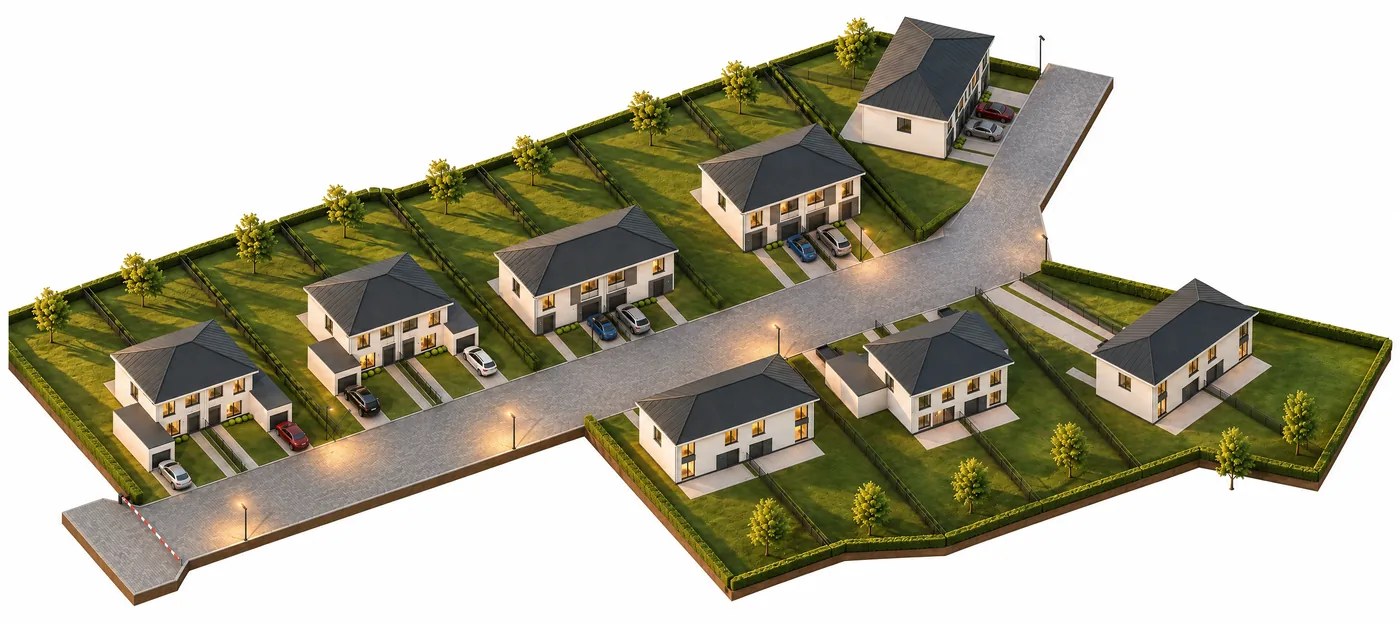
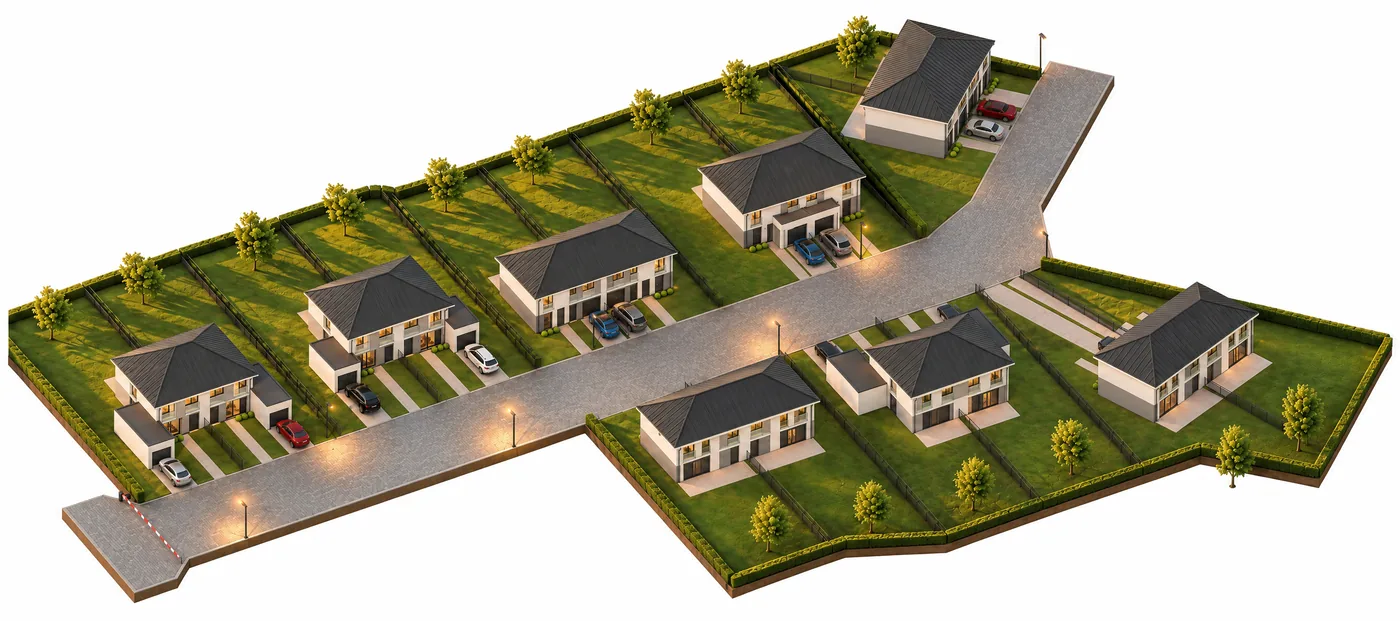
Makieta osiedla według elewacji i przekrojów projektu

diff --git a/js/makieta.js b/js/makieta.js
@@ -1,5 +1,5 @@
 // Obrysy połówek bliźniaków na makiecie 3D: kontury z maski ID (Blender, ta sama kamera co render).
 // Generuje makieta-3d/kadr.py + svg_js.py. Dwa widoki: poziomy (komputer) i pionowy (telefon).
-window.MAKIETA_WYM = [3688, 1644];
-window.MAKIETA = {"1A1": {"d": "M2485.0 419.5 2278.0 376.5 2270.5 373.0 2270.5 274.0 2257.5 268.0 2320.0 156.5 2437.0 138.5 2553.5 207.0 2553.5 211.0 2541.5 232.0 2541.5 272.0 2544.5 274.0 2545.5 315.0 2543.5 326.0 2526.5 357.0 2514.5 368.0 2499.5 403.0Z", "pin": [2410, 208]}, "1A1'": {"d": "M2548.0 315.5 2544.5 314.0 2541.5 232.0 2553.5 211.0 2553.0 205.5 2437.0 138.5 2323.0 156.5 2320.5 155.0 2383.0 43.5 2615.0 93.5 2617.5 96.0 2599.5 133.0 2599.5 218.0 2575.5 257.0 2569.5 280.0 2551.5 313.0Z", "pin": [2469, 110]}, "2A": {"d": "M1963.0 667.5 1855.5 548.0 1855.5 453.0 1835.5 432.0 2001.0 374.5 2059.0 397.5 2062.5 401.0 2121.5 510.0 2121.5 514.0 2115.5 517.0 2116.5 620.0 2105.0 627.5Z", "pin": [1976, 448]}, "2A'": {"d": "M2118.0 619.5 2115.5 618.0 2115.5 518.0 2121.5 515.0 2121.5 510.0 2061.5 399.0 2003.5 375.0 2162.0 319.5 2282.5 456.0 2266.5 464.0 2266.5 564.0 2264.0 566.5 2242.0 579.5 2190.0 589.5 2179.0 601.5 2125.0 614.5Z", "pin": [2142, 393]}, "3C": {"d": "M1415.0 886.5 1313.5 774.0 1319.5 686.0 1303.5 663.0 1493.0 596.5 1546.5 620.0 1598.5 716.0 1598.5 720.0 1592.5 724.0 1592.5 825.0 1571.0 837.5 1534.0 849.5 1525.0 847.5Z", "pin": [1455, 671]}, "3C'": {"d": "M1594.0 825.5 1592.5 724.0 1598.5 721.0 1598.5 716.0 1546.5 620.0 1494.5 597.0 1677.0 534.5 1786.5 657.0 1784.0 663.5 1774.5 667.0 1775.5 765.0 1747.0 776.5 1666.0 799.5 1655.0 808.5 1636.0 815.5 1618.0 821.5Z", "pin": [1644, 608]}, "4B": {"d": "M878.0 1041.5 810.5 968.0 810.5 913.0 839.5 899.0 812.5 874.0 810.5 776.0 797.5 757.0 936.0 708.5 996.5 734.0 1056.5 845.0 1056.5 848.0 1050.5 851.0 1050.5 950.0 1048.0 956.5 955.0 985.5 951.5 988.0 950.0 1016.5Z", "pin": [921, 790]}, "4B'": {"d": "M1051.0 955.5 1050.5 852.0 1056.5 849.0 1056.5 845.0 996.5 734.0 937.5 709.0 1075.0 661.5 1175.5 776.0 1189.0 789.5 1197.0 786.5 1259.5 857.0 1259.5 914.0 1194.0 937.5 1165.0 909.5 1102.0 934.5 1087.0 944.5Z", "pin": [1065, 733]}, "5B": {"d": "M392.0 1245.5 297.5 1143.0 297.5 1084.0 324.5 1070.0 303.5 1047.0 303.5 954.0 287.5 937.0 287.5 933.0 424.0 885.5 485.5 912.0 544.5 1022.0 544.5 1025.0 538.5 1029.0 538.5 1130.0 514.0 1142.5 459.0 1155.5 459.5 1221.0Z", "pin": [412, 973]}, "5B'": {"d": "M706.0 1140.5 695.5 1132.0 658.0 1089.5 561.0 1126.5 545.0 1127.5 540.0 1130.5 538.5 1029.0 544.5 1026.0 544.5 1022.0 485.5 912.0 425.5 886.0 563.0 838.5 667.5 960.0 679.5 961.0 767.5 1060.0 767.5 1118.0Z", "pin": [554, 911]}, "6C": {"d": "M1965.0 1215.5 1962.5 1214.0 1963.5 1115.0 1969.5 1111.0 1969.5 1107.0 1917.5 1011.0 1871.5 991.0 2058.0 926.5 2160.5 1042.0 2157.0 1048.5 2143.5 1054.0 2144.5 1153.0Z", "pin": [2022, 1000]}, "6C'": {"d": "M1784.0 1277.5 1683.5 1166.0 1689.5 1078.0 1675.5 1058.0 1852.0 996.5 1872.0 991.5 1917.5 1011.0 1969.5 1107.0 1969.5 1111.0 1963.5 1114.0 1963.5 1215.0Z", "pin": [1827, 1064]}, "7B": {"d": "M2531.0 1105.5 2527.5 1104.0 2526.5 1099.0 2526.5 1006.0 2532.5 1002.0 2532.5 997.0 2471.5 884.0 2420.0 862.5 2416.5 859.0 2546.0 814.5 2558.0 823.5 2573.0 819.5 2652.5 908.0 2656.5 913.0 2656.5 936.0 2669.5 949.0 2669.5 955.0 2656.5 962.0 2652.5 974.0 2653.5 1062.0Z", "pin": [2548, 883]}, "7B'": {"d": "M2409.0 1147.5 2406.0 1147.5 2396.5 1138.0 2339.0 1074.5 2257.0 1101.5 2174.5 1009.0 2174.5 951.0 2253.0 923.5 2286.0 960.5 2288.5 931.0 2271.5 912.0 2271.5 909.0 2275.0 906.5 2413.0 859.5 2469.0 881.5 2532.5 997.0 2532.5 1002.0 2526.5 1005.0 2527.5 1105.0Z", "pin": [2366, 936]}, "8C": {"d": "M3168.0 1026.5 3166.5 934.0 3175.5 927.0 3175.5 922.0 3091.0 839.5 3006.5 833.0 3146.0 731.5 3312.0 818.5 3314.5 824.0 3313.0 827.5 3297.5 839.0 3298.5 931.0Z", "pin": [3168, 809]}, "8C'": {"d": "M3031.0 1126.5 2886.5 1050.0 2887.5 946.0 2868.5 935.0 3006.0 833.5 3091.0 839.5 3175.5 922.0 3175.5 927.0 3166.5 934.0 3166.5 1027.0Z", "pin": [3031, 907]}};
+window.MAKIETA_WYM = [3688, 1636];
+window.MAKIETA = {"1A1": {"d": "M2486.0 417.5 2285.0 374.5 2278.5 371.0 2279.5 284.0 2263.5 277.0 2326.0 166.5 2440.0 135.5 2556.5 217.0 2545.5 239.0 2546.5 311.0Z", "pin": [2417, 208]}, "1A1'": {"d": "M2547.0 309.5 2545.5 239.0 2556.5 220.0 2556.5 216.0 2440.0 135.5 2339.0 163.5 2327.0 166.5 2325.5 165.0 2388.0 54.5 2609.0 101.5 2620.5 106.0 2604.5 138.0 2605.5 206.0Z", "pin": [2474, 117]}, "2A": {"d": "M1962.0 657.5 1948.5 646.0 1849.5 538.0 1850.5 457.0 1835.5 436.0 1997.0 379.5 2056.0 389.5 2069.5 413.0 2117.5 513.0 2117.5 517.0 2112.5 520.0 2112.5 546.0 2134.5 570.0 2133.5 630.0 2060.0 655.5 2057.0 655.5 2034.0 631.5Z", "pin": [1975, 448]}, "2A'": {"d": "M2135.0 630.5 2134.5 570.0 2112.5 546.0 2112.5 521.0 2117.5 518.0 2117.5 513.0 2058.5 391.0 2001.5 379.0 2159.0 324.5 2274.5 454.0 2278.5 459.0 2278.5 463.0 2275.0 468.5 2265.5 473.0 2266.5 555.0 2261.0 558.5 2215.0 570.5 2211.5 574.0 2211.5 602.0 2207.0 605.5Z", "pin": [2144, 400]}, "3C": {"d": "M1415.0 879.5 1405.5 872.0 1314.5 772.0 1315.5 696.0 1299.5 677.0 1303.0 672.5 1488.0 609.5 1541.0 619.5 1593.5 727.0 1593.5 731.0 1588.5 734.0 1588.5 819.0Z", "pin": [1453, 677]}, "3C'": {"d": "M1591.0 819.5 1588.5 818.0 1588.5 735.0 1593.5 732.0 1593.5 727.0 1590.5 720.0 1542.5 621.0 1496.0 611.5 1492.5 609.0 1677.0 545.5 1782.5 663.0 1780.0 669.5 1767.5 675.0 1767.5 758.0Z", "pin": [1643, 615]}, "4B": {"d": "M884.0 1037.5 813.5 962.0 813.5 909.0 838.5 897.0 811.5 867.0 812.5 783.0 800.5 769.0 804.0 765.5 937.0 720.5 995.0 730.5 999.5 734.0 1057.5 854.0 1057.5 858.0 1052.5 861.0 1052.5 943.0 952.0 976.5 947.0 1015.5Z", "pin": [925, 797]}, "4B'": {"d": "M1054.0 943.5 1052.5 862.0 1057.5 859.0 1057.5 854.0 998.5 732.0 940.5 720.0 1081.0 671.5 1181.0 783.5 1200.0 778.5 1262.5 849.0 1260.5 908.0 1196.0 930.5 1172.0 905.5Z", "pin": [1070, 738]}, "5B": {"d": "M398.0 1238.5 395.0 1238.5 388.5 1232.0 300.5 1136.0 300.5 1083.0 327.5 1071.0 303.5 1044.0 303.5 965.0 289.5 945.0 312.0 935.5 427.0 897.5 481.0 907.5 487.5 915.0 543.5 1031.0 543.5 1035.0 538.5 1038.0 538.5 1122.0 458.0 1150.5 461.5 1215.0 454.0 1219.5Z", "pin": [414, 979]}, "5B'": {"d": "M706.0 1133.5 659.0 1082.5 540.0 1122.5 538.5 1039.0 543.5 1036.0 543.5 1031.0 487.5 915.0 484.5 909.0 481.0 907.5 428.5 897.0 565.0 849.5 659.5 956.0 664.0 960.5 678.0 956.5 767.5 1057.0 767.5 1111.0Z", "pin": [557, 919]}, "6C": {"d": "M1963.0 1212.5 1961.5 1128.0 1966.5 1124.0 1966.5 1120.0 1929.5 1043.0 1914.0 1012.5 1867.0 1004.5 1860.5 1001.0 2054.0 934.5 2157.5 1049.0 2156.5 1059.0 2144.5 1066.0 2144.5 1149.0Z", "pin": [2018, 1006]}, "6C'": {"d": "M1784.0 1273.5 1687.5 1170.0 1687.5 1090.0 1672.5 1073.0 1673.5 1065.0 1859.0 1000.5 1862.0 1003.5 1913.0 1012.5 1966.5 1120.0 1966.5 1124.0 1961.5 1127.0 1961.5 1212.0Z", "pin": [1824, 1070]}, "7B": {"d": "M2532.0 1098.5 2528.5 1095.0 2528.5 1044.0 2529.5 1014.0 2534.5 1011.0 2534.5 1007.0 2479.5 893.0 2472.0 879.5 2419.5 869.0 2575.0 815.5 2658.5 909.0 2658.5 948.0 2666.5 960.0 2655.5 966.0 2656.5 1055.0Z", "pin": [2555, 884]}, "7B'": {"d": "M2404.0 1142.5 2335.0 1068.5 2259.0 1093.5 2176.5 1001.0 2176.5 947.0 2257.0 918.5 2288.0 953.5 2290.5 936.0 2275.5 919.0 2277.0 917.5 2416.0 869.5 2472.0 879.5 2534.5 1007.0 2534.5 1011.0 2529.5 1014.0 2529.5 1098.0Z", "pin": [2364, 941]}, "8C": {"d": "M3170.0 1019.5 3168.5 938.0 3176.5 931.0 3174.5 924.0 3094.0 834.5 3022.0 839.5 3014.5 838.0 3150.0 738.5 3313.0 823.5 3315.5 829.0 3297.5 844.0 3298.5 925.0Z", "pin": [3173, 812]}, "8C'": {"d": "M3040.0 1114.5 2891.5 1037.0 2892.5 952.0 2874.5 940.0 3011.0 839.5 3094.0 834.5 3176.5 927.0 3176.5 931.0 3168.5 937.0 3168.5 1020.0Z", "pin": [3038, 905]}};
 window.MAKIETA_PION = {"wym": [1986, 2274], "domy": {"1A1": {"d": "M561.0 458.5 481.5 362.0 482.5 325.0 474.5 314.0 551.0 245.5 626.0 219.5 709.5 322.0 708.0 325.5 696.5 333.0 697.5 373.0Z", "pin": [594, 283]}, "1A1'": {"d": "M481.0 361.5 404.5 268.0 403.5 228.0 390.5 211.0 542.0 116.5 625.5 219.0 551.0 245.5 483.0 305.5 474.5 314.0 482.5 325.0Z", "pin": [516, 185]}, "2A": {"d": "M706.0 804.5 538.5 786.0 538.5 744.0 529.0 742.5 528.5 734.0 545.0 619.5 639.0 609.5 730.5 640.0 720.5 736.0 716.5 742.0 711.5 785.0Z", "pin": [630, 655]}, "2A'": {"d": "M726.0 687.5 725.5 677.0 730.5 647.0 729.0 638.5 639.0 609.5 544.5 619.0 561.0 500.5 747.5 520.0Z", "pin": [645, 544]}, "3C": {"d": "M684.0 1236.5 539.5 1221.0 539.5 1178.0 530.0 1176.5 529.5 1169.0 549.0 1033.5 633.0 1024.5 712.5 1051.0 706.5 1090.0 706.5 1114.0 702.5 1143.0 697.5 1156.0 690.5 1215.0Z", "pin": [623, 1073]}, "3C'": {"d": "M707.0 1098.5 712.5 1053.0 710.0 1049.5 633.0 1024.5 548.5 1033.0 568.0 892.5 731.5 910.0 713.5 1040.0 713.5 1063.0Z", "pin": [641, 940]}, "4B": {"d": "M606.0 1615.5 510.0 1605.5 508.5 1572.0 511.5 1557.0 509.0 1555.5 409.5 1545.0 410.5 1502.0 401.0 1501.5 399.5 1498.0 414.0 1395.5 507.0 1384.5 600.5 1415.0 586.5 1520.0 583.5 1522.0 582.5 1533.0 613.5 1537.0 613.5 1575.0Z", "pin": [499, 1438]}, "4B'": {"d": "M600.0 1414.5 507.0 1384.5 415.0 1395.5 428.5 1293.0 541.0 1304.5 548.0 1304.5 549.0 1296.5 559.0 1296.5 645.0 1305.5 645.5 1342.0 639.5 1379.0 638.0 1381.5 630.0 1381.5 606.0 1378.5Z", "pin": [531, 1331]}, "5B": {"d": "M595.0 1999.5 455.0 1985.5 454.5 1957.0 457.0 1936.5 366.0 1927.5 365.5 1884.0 355.5 1882.0 355.5 1873.0 368.5 1779.0 464.0 1768.5 554.0 1797.5 555.5 1801.0 545.5 1876.0 537.5 1915.0 601.5 1923.0 601.5 1962.0Z", "pin": [454, 1822]}, "5B'": {"d": "M555.0 1798.5 464.0 1768.5 370.0 1778.5 382.5 1678.0 494.0 1689.5 496.5 1681.0 503.0 1680.5 635.0 1694.5 635.5 1730.0 629.5 1767.0 621.0 1768.5 561.0 1761.5Z", "pin": [502, 1714]}, "6C": {"d": "M1264.0 1095.5 1183.0 1069.5 1101.5 1078.0 1122.0 937.5 1283.5 955.0Z", "pin": [1195, 974]}, "6C'": {"d": "M1237.0 1282.5 1092.5 1267.0 1092.5 1225.0 1083.0 1223.5 1082.5 1216.0 1102.0 1078.5 1183.0 1069.5 1264.5 1096.0 1245.5 1238.0 1242.5 1240.0Z", "pin": [1176, 1119]}, "7B": {"d": "M1400.0 723.5 1305.0 692.5 1208.0 703.5 1210.5 686.0 1209.0 678.5 1171.5 675.0 1171.5 647.0 1180.5 584.0 1311.0 596.5 1315.5 598.0 1316.0 612.5 1414.0 622.5Z", "pin": [1273, 620]}, "7B'": {"d": "M1268.0 916.5 1140.5 903.0 1140.5 872.0 1148.5 819.0 1203.5 824.0 1203.5 809.0 1194.0 807.5 1193.5 803.0 1207.5 704.0 1305.0 692.5 1400.0 723.5 1387.5 821.0 1383.5 831.0 1378.5 870.0 1277.0 859.5Z", "pin": [1296, 744]}, "8C": {"d": "M1448.0 414.5 1445.5 414.0 1442.5 407.0 1434.5 379.0 1433.5 357.0 1417.5 312.0 1413.5 290.0 1414.5 272.0 1402.5 231.0 1562.0 195.5 1601.5 332.0 1522.0 331.5 1443.0 366.5 1442.5 372.0 1450.5 398.0Z", "pin": [1499, 250]}, "8C'": {"d": "M1488.0 548.5 1476.5 518.0 1474.5 501.0 1465.5 469.0 1464.0 465.5 1458.5 463.0 1448.5 428.0 1448.5 401.0 1450.5 398.0 1442.5 367.0 1522.0 331.5 1601.0 332.5 1640.5 466.0 1640.0 471.5 1629.5 474.0 1630.5 517.0Z", "pin": [1536, 381]}}};

diff --git a/index.html b/index.html
@@ -128,7 +128,7 @@
       <div class="nawigator__rys" id="nawigator-rys">
         <div class="nawigator__plotno">
           <picture>
-            <img src="img/makieta-2400.webp" srcset="img/makieta-1400.webp 1400w, img/makieta-2400.webp 2400w" sizes="(max-width: 600px) 980px, (max-width: 1440px) 100vw, 1320px" width="2400" height="1070" alt="Makieta 3D pierwszego etapu osiedla według planu zagospodarowania: droga ze szlabanem, 5 bliźniaków po jednej stronie i 3 po drugiej" loading="lazy">
+            <img src="img/makieta-2400.webp" srcset="img/makieta-1400.webp 1400w, img/makieta-2400.webp 2400w" sizes="(max-width: 600px) 980px, (max-width: 1440px) 100vw, 1320px" width="2400" height="1065" alt="Makieta 3D pierwszego etapu osiedla według planu zagospodarowania: droga ze szlabanem, 5 bliźniaków po jednej stronie i 3 po drugiej" loading="lazy">
           </picture>
           <svg viewBox="0 0 3689 1645" id="nav-svg" role="group" aria-label="Domy na makiecie, wybierz dom"></svg>
         </div>
@@ -136,7 +136,7 @@
       <p class="nawigator__gest" id="nawigator-gest" aria-hidden="true" hidden><span class="nawigator__palec"><img src="img/ikona-palec-160.webp" width="159" height="160" alt=""></span>Przesuń makietę palcem</p>
       <div class="nawigator__dol">
         <p class="legenda"><span><i class="kropka"></i><span>Wolne (<span data-wolne>14</span>)</span></span><span><i class="kropka kropka--sprzedany"></i><span>Sprzedane (<span data-sprzedane>2</span>)</span></span></p>
-        <p class="przypis">Makieta według planu zagospodarowania.</p>
+        <p class="przypis">Makieta według planu zagospodarowania i projektu architektonicznego. Zieleń, auta i latarnie pokazane poglądowo.</p>
       </div>
     </div>
     <div class="plan">
